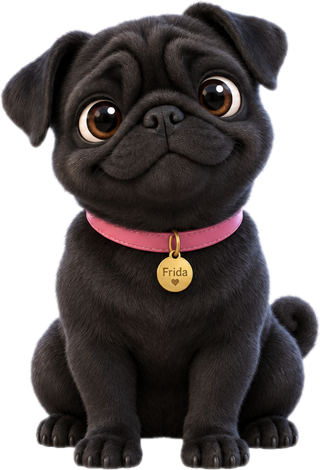
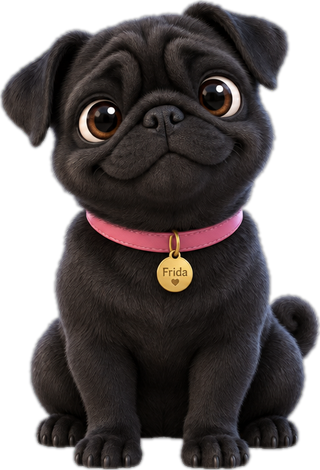
Frida: borda limpa, espelhada como os outros e textos fiéis ao que ela faz
- Tira o resto de branco da borda do recorte.
- Volta a espelhar (a plaquinha não se lê no tamanho do mascote): assim ela
  vira para o lado do cursor e anda de frente.
- Textos: sem o "brilha quando fica pronto" (num pug preto não aparece) e
  sem o "rebola" dos personagens de foto, que não existe.

Claude-Session: https://claude.ai/code/session_01H42vW6PVMTMmsqKSigy9Mw

diff --git a/README.md b/README.md
@@ -26,7 +26,7 @@ Um bonequinho que fica num canto da tela, por cima das outras janelas, e mostra 
 
 Prontos: Frida (pug preta, ilustrada), Borboleta IBA (3D), Clawd, Borboleta, Gato, Robô e Fantasma.
 
-A **Frida** é uma pug preta ilustrada no estilo de desenho animado. Como os personagens de foto, ela ganha volume e vira para o lado do cursor, inclina a cabeça curiosa e respira. Enquanto o Claude trabalha, dá pulinhos; quando ele precisa de você, pula sem parar; quando algo trava, abaixa a cabeça; quando o trabalho fica pronto, brilha.
+A **Frida** é uma pug preta ilustrada no estilo de desenho animado. Como os personagens de foto, ela ganha volume, vira para o lado do cursor, inclina a cabeça curiosa quando está à toa, respira e pula quando você clica. Enquanto o Claude trabalha, dá pulinhos; quando ele precisa de você, pula sem parar; quando algo trava, fica de cabeça baixa; quando o trabalho fica pronto, fica quietinha e o balão verde avisa.
 
 A Borboleta IBA usa a foto da morpho-azul do logo do Instituto Borboleta Azul, com uso animado autorizado pela gestão do Instituto em 25/10/2026. As asas da foto ganham volume, curvatura e brilho conforme a luz; corpo e antenas são modelados em 3D. Ela reage ao cursor:
 
@@ -42,7 +42,7 @@ A Borboleta IBA usa a foto da morpho-azul do logo do Instituto Borboleta Azul, c
 
 Também dá para transformar qualquer foto de borboleta (vista de cima, fundo transparente) numa borboleta 3D: peça "/mascote cria uma borboleta 3D com esta foto".
 
-**Com a sua foto:** botão direito no mascote > Personagem > Criar personagem com foto... Escolha a foto (do seu cachorro, gato, de você) e dê um nome. Com fundo liso, o fundo sai sozinho; com fundo cheio de coisas, recorte antes no Paint do Windows (Remover plano de fundo). O personagem de foto vira para o lado do cursor, inclina a cabeça curioso, respira, pula quando você clica, fica pulando quando o Claude precisa de você e rebola quando ele termina.
+**Com a sua foto:** botão direito no mascote > Personagem > Criar personagem com foto... Escolha a foto (do seu cachorro, gato, de você) e dê um nome. Com fundo liso, o fundo sai sozinho; com fundo cheio de coisas, recorte antes no Paint do Windows (Remover plano de fundo). O personagem de foto vira para o lado do cursor, inclina a cabeça curioso, respira, pula quando você clica, fica pulando quando o Claude precisa de você e fica quietinho quando ele termina.
 
 Para criar um de quadradinhos, peça ao Claude: "/mascote cria um personagem de cachorro caramelo". Ele desenha, confere e já troca. Também dá para desenhar à mão: menu do botão direito, Personagem, Abrir pasta de personagens; lá há um exemplo comentado no arquivo `exemplo.json.txt`.
 

diff --git a/agensi/README.md b/agensi/README.md
@@ -1,8 +1,8 @@
 # Mascote Flutuante (skill)
 
-A floating desktop mascot that shows what Claude Code is doing: **working**, **needs you** or **done**. It sits on top of your windows, follows the cursor with its eyes, jumps when you click and has a quick chat bar. The mascot's texts are in Portuguese.
+A floating desktop mascot that shows what Claude Code is doing: **working**, **needs you** or **done**. It sits on top of your windows, reacts to your cursor, jumps when you click and has a quick chat bar. The mascot's texts are in Portuguese.
 
-Meet **Frida**, a black pug illustrated in an animated-film style. She gets volume and turns toward your cursor, tilts her head when she's curious and breathes. While Claude works, she hops. When Claude needs you, she keeps jumping. When something breaks, she lowers her head. When your work is ready, she glows. Other characters: a 3D blue morpho butterfly, pixel characters (Clawd, cat, robot, ghost), and your own from a photo of your pet.
+Meet **Frida**, a black pug illustrated in an animated-film style. She gets volume, turns to your cursor's side, tilts her head when she's idle and curious, breathes and jumps when you click. While Claude works, she hops. When Claude needs you, she keeps jumping. When something breaks, she slumps with her head down. When your work is ready, she sits still and the green balloon tells you. Other characters: a 3D blue morpho butterfly, pixel characters (Clawd, cat, robot, ghost), and your own from a photo of your pet.
 
 ## Install
 

diff --git a/agensi/SKILL.modelo.md b/agensi/SKILL.modelo.md
@@ -48,7 +48,7 @@ Requisito para os personagens 3D e para as bordas suaves: Pillow (`python -m pip
 
 ## A Frida
 
-Pug preta ilustrada no estilo de desenho animado. Ela ganha volume e vira para o lado do cursor, inclina a cabeça curiosa e respira. Enquanto o Claude trabalha, dá pulinhos; quando ele precisa de você, pula sem parar; quando algo trava, abaixa a cabeça; quando o trabalho fica pronto, brilha. Para usar: `iniciar.py config personagem Frida`.
+Pug preta ilustrada no estilo de desenho animado. Ela ganha volume, vira para o lado do cursor, inclina a cabeça curiosa quando está à toa, respira e pula quando você clica. Enquanto o Claude trabalha, dá pulinhos; quando ele precisa de você, pula sem parar; quando algo trava, fica de cabeça baixa; quando o trabalho fica pronto, fica quietinha e o balão verde avisa. Para usar: `iniciar.py config personagem Frida`.
 
 {{COMUM}}
 ## Como o mascote funciona (para explicar se perguntarem)
